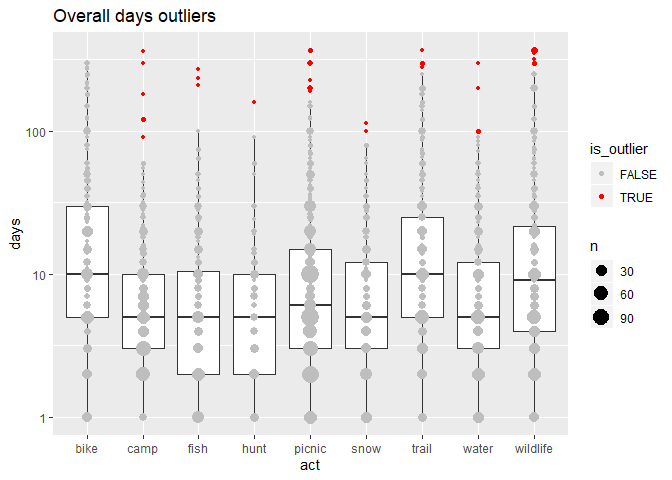
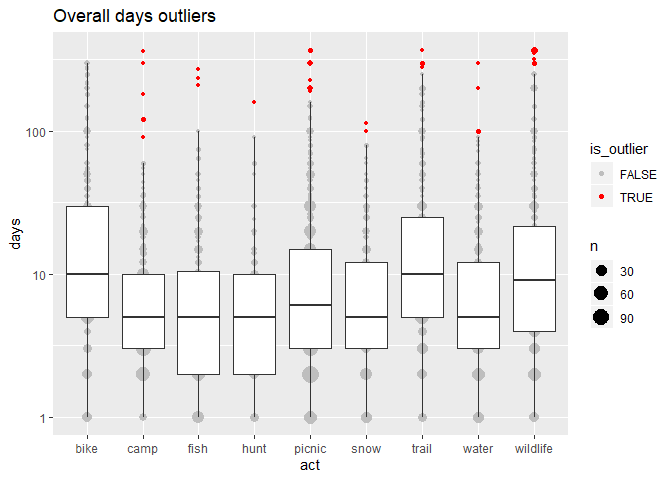
use package sastats for outliers

diff --git a/code/svy/log/7-recode-outliers.md b/code/svy/log/7-recode-outliers.md
@@ -1,7 +1,7 @@
 7-recode-outliers.R
 ================
 danka
-2020-02-13
+2020-02-20
 
 ``` r
 # identify days outliers using tukey's rule
@@ -10,8 +10,7 @@ danka
 library(tidyverse)
 library(sastats)
 
-source("R/outliers.R")
-source("R/prep-svy.R")
+source("R/prep-svy.R") # write_list_csv()
 
 outfile <- "data/processed/svy.rds"
 outfile_csv <- "data/processed/svy-csv"
@@ -33,14 +32,15 @@ svy <- lapply(svy, function(df) anti_join(df, suspicious, by = "Vrid"))
 svy$act <- svy$act %>%
     group_by(act) %>%
     mutate(
-        is_outlier = tukey_outlier(days, ignore_zero = TRUE, apply_log = TRUE),
+        is_outlier = outlier_tukey(days, apply_log = TRUE),
         days_cleaned = ifelse(is_outlier, NA, days)
     ) %>%
     ungroup()
 
 # summarize
-x <- filter(svy$act, is_targeted, !is.na(days))
-filter(x, days > 0) %>% outlier_plot() + ggtitle("Overall days outliers")
+x <- filter(svy$act, is_targeted)
+outlier_plot(x, days, act, apply_log = TRUE, show_outliers = TRUE) + 
+    ggtitle("Overall days outliers")
 ```
 
 ![](7-recode-outliers_files/figure-gfm/unnamed-chunk-1-1.png)<!-- -->
@@ -51,31 +51,18 @@ outlier_pct(x, act) %>% knitr::kable()
 
 | act      | is\_outlier |  n | pct\_outliers |
 | :------- | :---------- | -: | ------------: |
-| camp     | TRUE        |  6 |     1.3793103 |
-| fish     | TRUE        |  3 |     0.9803922 |
-| hunt     | TRUE        |  1 |     0.6802721 |
-| picnic   | TRUE        | 15 |     1.7241379 |
-| snow     | TRUE        |  2 |     0.7168459 |
-| trail    | TRUE        |  4 |     1.0204082 |
-| water    | TRUE        |  4 |     1.1142061 |
-| wildlife | TRUE        | 13 |     2.6530612 |
+| camp     | TRUE        |  6 |     0.4792332 |
+| fish     | TRUE        |  3 |     0.2396166 |
+| hunt     | TRUE        |  1 |     0.0798722 |
+| picnic   | TRUE        | 15 |     1.1980831 |
+| snow     | TRUE        |  2 |     0.1597444 |
+| trail    | TRUE        |  4 |     0.3194888 |
+| water    | TRUE        |  4 |     0.3194888 |
+| wildlife | TRUE        | 13 |     1.0383387 |
 
 ``` r
-outlier_mean_compare(x, "days", "days_cleaned", act) %>% knitr::kable()
+outlier_mean_compare(x, days, days_cleaned, act) %>% knitr::kable()
 ```
-
-    ## Warning: funs() is soft deprecated as of dplyr 0.8.0
-    ## Please use a list of either functions or lambdas: 
-    ## 
-    ##   # Simple named list: 
-    ##   list(mean = mean, median = median)
-    ## 
-    ##   # Auto named with `tibble::lst()`: 
-    ##   tibble::lst(mean, median)
-    ## 
-    ##   # Using lambdas
-    ##   list(~ mean(., trim = .2), ~ median(., na.rm = TRUE))
-    ## This warning is displayed once per session.
 
 | act      |      days | days\_cleaned |
 | :------- | --------: | ------------: |
@@ -102,14 +89,15 @@ svy$act <- svy$act %>%
 svy$act <- svy$act %>%
     group_by(act) %>%
     mutate(
-        is_outlier = tukey_outlier(days_water, ignore_zero = TRUE, apply_log = TRUE),
+        is_outlier = outlier_tukey(days_water, apply_log = TRUE),
         days_cleaned = ifelse(is_outlier | is_overall_outlier, NA, days_water)
     ) %>%
     ungroup()
 
 # summarize
-x <- filter(svy$act, is_targeted, !is.na(days_water))
-filter(x, days_water > 0) %>% outlier_plot("days_water") + ggtitle("Water days outliers")
+x <- filter(svy$act, is_targeted)
+outlier_plot(x, days_water, act, apply_log = TRUE, show_outliers = TRUE) + 
+    ggtitle("Water days outliers")
 ```
 
 ![](7-recode-outliers_files/figure-gfm/unnamed-chunk-1-2.png)<!-- -->
@@ -120,16 +108,16 @@ outlier_pct(x, act) %>% knitr::kable()
 
 | act      | is\_outlier | n | pct\_outliers |
 | :------- | :---------- | -: | ------------: |
-| bike     | TRUE        | 4 |     2.2598870 |
-| camp     | TRUE        | 5 |     1.5974441 |
-| fish     | TRUE        | 3 |     1.0000000 |
-| picnic   | TRUE        | 7 |     1.1532125 |
-| trail    | TRUE        | 4 |     1.4492754 |
-| water    | TRUE        | 3 |     0.9493671 |
-| wildlife | TRUE        | 4 |     1.1396011 |
+| bike     | TRUE        | 4 |     0.3194888 |
+| camp     | TRUE        | 5 |     0.3993610 |
+| fish     | TRUE        | 3 |     0.2396166 |
+| picnic   | TRUE        | 7 |     0.5591054 |
+| trail    | TRUE        | 4 |     0.3194888 |
+| water    | TRUE        | 3 |     0.2396166 |
+| wildlife | TRUE        | 4 |     0.3194888 |
 
 ``` r
-outlier_mean_compare(x, "days_water", "days_cleaned", act) %>% knitr::kable()
+outlier_mean_compare(x, days_water, days_cleaned, act) %>% knitr::kable()
 ```
 
 | act      | days\_water | days\_cleaned |
@@ -157,16 +145,20 @@ svy$act <- svy$act %>%
 svy$basin <- svy$basin %>%
     group_by(act, basin) %>%
     mutate(
-        is_outlier = tukey_outlier(days_water, ignore_zero = TRUE, apply_log = TRUE),
-        topcode_value = tukey_top(days_water, ignore_zero = TRUE, apply_log = TRUE),
+        is_outlier = outlier_tukey(days_water, apply_log = TRUE),
+        topcode_value = outlier_tukey_top(days_water, apply_log = TRUE),
         days_cleaned = ifelse(is_outlier, topcode_value, days_water)
     ) %>%
     ungroup()
 
 # summarize
-x <- filter(svy$basin, !is.na(days_water))
-filter(x, days_water > 0) %>% outlier_plot("days_water", c("act", "basin")) + 
-    facet_wrap(~ basin)
+x <- filter(svy$basin)
+plts <- sapply(unique(x$basin), function(i) {
+    tmp <- filter(x, basin == i)
+    outlier_plot(tmp, days_water, act, apply_log = TRUE, show_outliers = TRUE) + 
+        ggtitle(i) + theme(legend.position = "none")
+}, simplify = FALSE)
+cowplot::plot_grid(plotlist = plts)
 ```
 
 ![](7-recode-outliers_files/figure-gfm/unnamed-chunk-1-3.png)<!-- -->
@@ -176,20 +168,20 @@ outlier_pct(x, act, basin) %>% ungroup() %>% select(-n, -is_outlier) %>%
     spread(basin, pct_outliers, fill = 0) %>% knitr::kable()
 ```
 
-| act      | arkansas | colorado | gunnison |     metro | n platte |        rio | s platte | southwest | yampa |
-| :------- | -------: | -------: | -------: | --------: | -------: | ---------: | -------: | --------: | ----: |
-| bike     | 0.000000 | 0.000000 | 0.000000 |  0.000000 | 0.000000 |  50.000000 | 6.250000 | 20.000000 |     0 |
-| camp     | 3.125000 | 3.061224 | 2.040816 |  4.166667 | 6.896552 |   0.000000 | 5.555556 | 11.764706 |     0 |
-| fish     | 1.639344 | 1.492537 | 2.702703 |  3.225807 | 3.571429 |   0.000000 | 1.538461 |  0.000000 |     0 |
-| hunt     | 0.000000 | 0.000000 | 0.000000 |  0.000000 | 0.000000 |   0.000000 | 0.000000 | 66.666667 |     0 |
-| picnic   | 1.818182 | 1.470588 | 0.000000 |  1.709402 | 4.081633 |   7.692308 | 2.395210 |  0.000000 |     0 |
-| snow     | 0.000000 | 0.000000 | 0.000000 | 50.000000 | 0.000000 | 100.000000 | 0.000000 | 20.000000 |   100 |
-| trail    | 0.000000 | 1.052632 | 0.000000 |  1.315789 | 3.125000 |   5.263158 | 0.000000 |  4.761905 |    20 |
-| water    | 2.272727 | 2.409639 | 0.000000 |  0.000000 | 0.000000 |  11.111111 | 0.000000 |  0.000000 |     0 |
-| wildlife | 0.000000 | 1.176471 | 0.000000 |  0.000000 | 3.030303 |   0.000000 | 5.504587 |  0.000000 |     0 |
+| act      |  arkansas |  colorado |  gunnison |     metro |  n platte |       rio |  s platte | southwest |     yampa |
+| :------- | --------: | --------: | --------: | --------: | --------: | --------: | --------: | --------: | --------: |
+| bike     | 0.0000000 | 0.0000000 | 0.0000000 | 0.0000000 | 0.0000000 | 0.5714286 | 1.7142857 | 0.5714286 | 0.0000000 |
+| camp     | 0.6153846 | 0.9230769 | 0.3076923 | 0.3076923 | 0.6153846 | 0.0000000 | 1.2307692 | 0.6153846 | 0.0000000 |
+| fish     | 0.3571429 | 0.3571429 | 0.3571429 | 0.3571429 | 0.3571429 | 0.0000000 | 0.3571429 | 0.0000000 | 0.0000000 |
+| hunt     | 0.0000000 | 0.0000000 | 0.0000000 | 0.0000000 | 0.0000000 | 0.0000000 | 0.0000000 | 4.2553191 | 0.0000000 |
+| picnic   | 0.3284072 | 0.3284072 | 0.0000000 | 0.3284072 | 0.3284072 | 0.3284072 | 0.6568144 | 0.0000000 | 0.0000000 |
+| snow     | 0.0000000 | 0.0000000 | 0.0000000 | 1.7241379 | 0.0000000 | 3.4482759 | 0.0000000 | 1.7241379 | 1.7241379 |
+| trail    | 0.0000000 | 0.3496503 | 0.0000000 | 0.3496503 | 0.3496503 | 0.3496503 | 0.0000000 | 0.3496503 | 0.6993007 |
+| water    | 0.2967359 | 0.5934718 | 0.0000000 | 0.0000000 | 0.0000000 | 0.5934718 | 0.0000000 | 0.0000000 | 0.0000000 |
+| wildlife | 0.0000000 | 0.2890173 | 0.0000000 | 0.0000000 | 0.2890173 | 0.0000000 | 1.7341040 | 0.0000000 | 0.0000000 |
 
 ``` r
-outlier_mean_compare(x, "days_water", "days_cleaned", act, basin) %>%
+outlier_mean_compare(x, days_water, days_cleaned, act, basin) %>%
     knitr::kable()
 ```
 
@@ -197,6 +189,7 @@ outlier_mean_compare(x, "days_water", "days_cleaned", act, basin) %>%
 | :------- | :-------- | ----------: | ------------: |
 | bike     | arkansas  |   23.714286 |     23.714286 |
 | bike     | colorado  |    9.523810 |      9.523810 |
+| bike     | gunnison  |         NaN |           NaN |
 | bike     | metro     |    9.538462 |      9.538462 |
 | bike     | n platte  |    3.500000 |      3.500000 |
 | bike     | rio       |    5.000000 |      5.000000 |
@@ -217,12 +210,14 @@ outlier_mean_compare(x, "days_water", "days_cleaned", act, basin) %>%
 | fish     | gunnison  |    5.108108 |      4.697922 |
 | fish     | metro     |    8.096774 |      5.381784 |
 | fish     | n platte  |    3.428571 |      2.939775 |
+| fish     | rio       |         NaN |           NaN |
 | fish     | s platte  |    6.723077 |      5.889774 |
 | fish     | southwest |    6.250000 |      6.250000 |
 | fish     | yampa     |    6.058823 |      6.058823 |
 | hunt     | arkansas  |    9.833333 |      9.833333 |
 | hunt     | colorado  |    5.000000 |      5.000000 |
 | hunt     | gunnison  |    3.250000 |      3.250000 |
+| hunt     | metro     |         NaN |           NaN |
 | hunt     | n platte  |    1.666667 |      1.666667 |
 | hunt     | rio       |    6.750000 |      6.750000 |
 | hunt     | s platte  |    5.111111 |      5.111111 |
@@ -243,6 +238,7 @@ outlier_mean_compare(x, "days_water", "days_cleaned", act, basin) %>%
 | snow     | metro     |    1.500000 |      1.500000 |
 | snow     | n platte  |    2.250000 |      2.250000 |
 | snow     | rio       |    1.000000 |      1.000000 |
+| snow     | s platte  |         NaN |           NaN |
 | snow     | southwest |    1.600000 |      1.146873 |
 | snow     | yampa     |    5.000000 |      5.000000 |
 | trail    | arkansas  |    6.745455 |      6.745455 |
